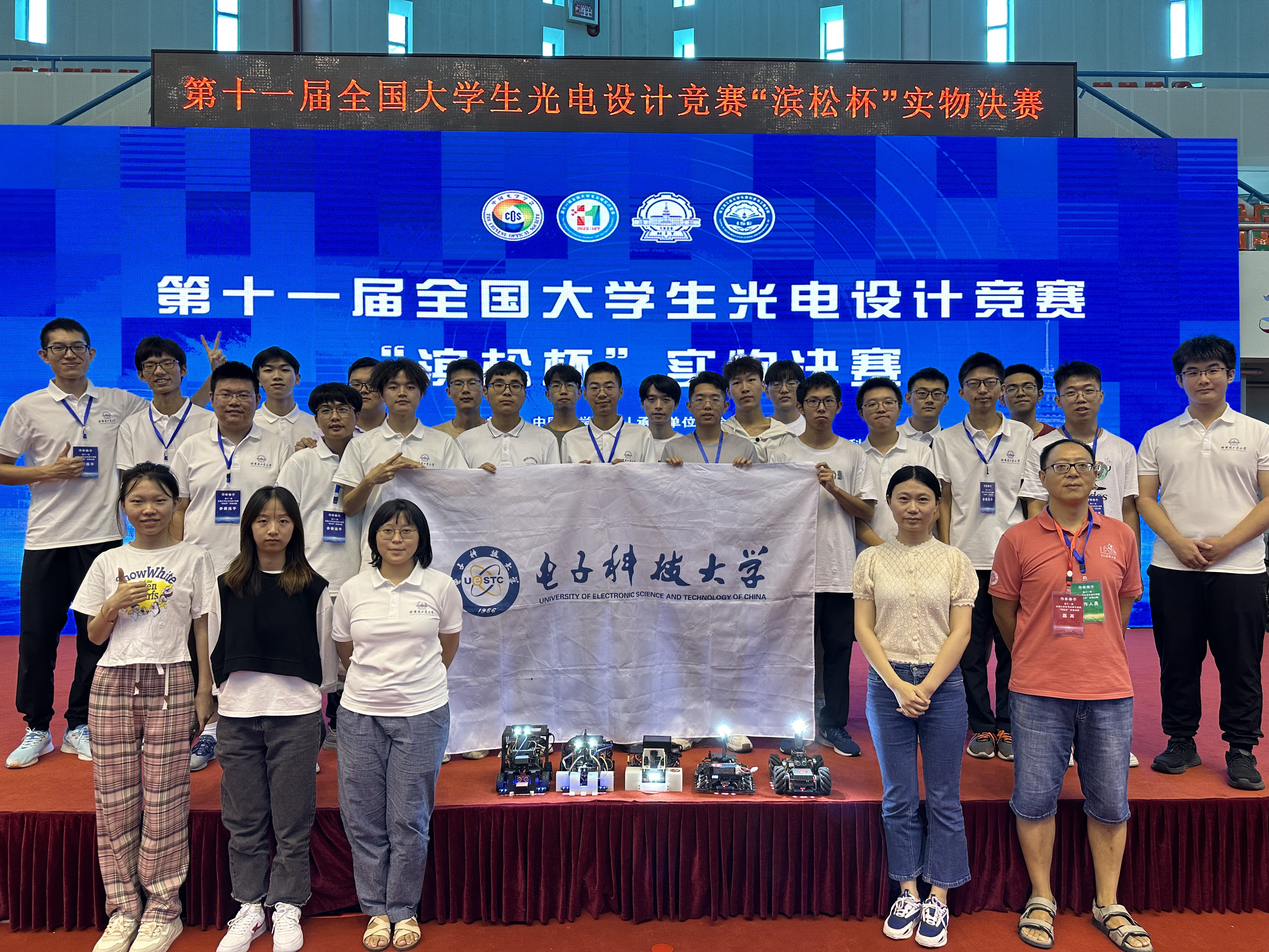
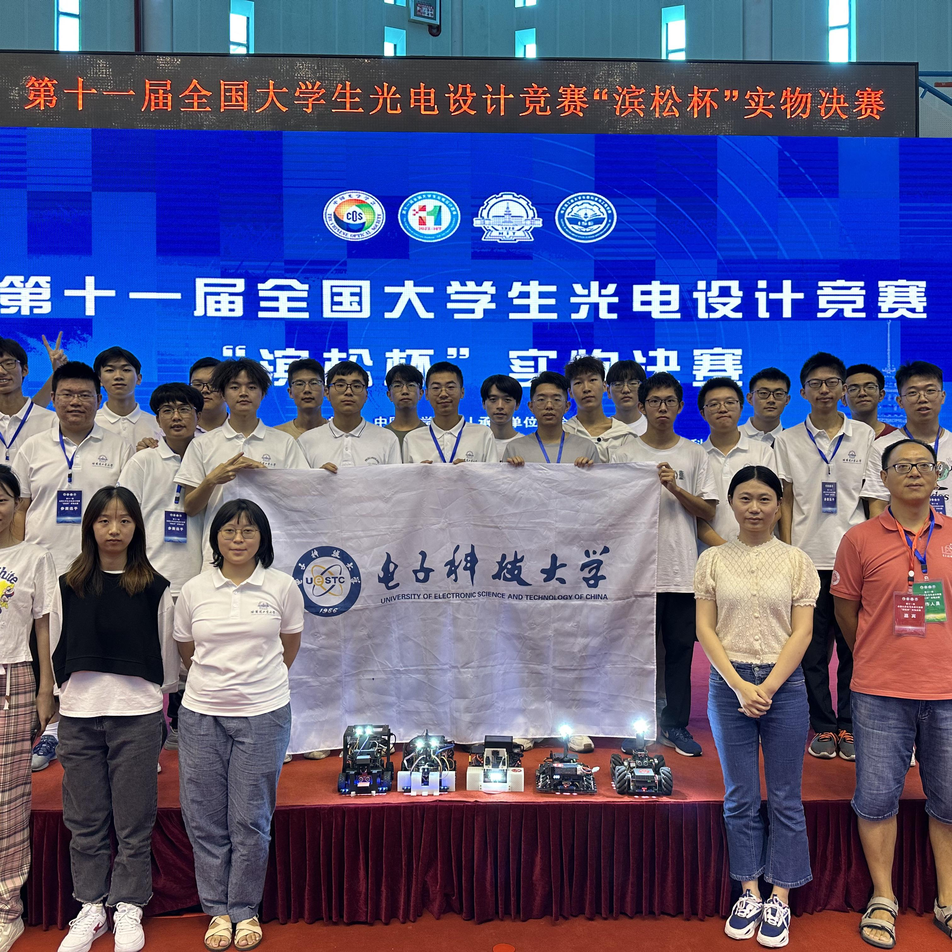
更新readme

diff --git a/05.Others/crop_images.py b/05.Others/crop_images.py
@@ -1,0 +1,54 @@
+import os
+from PIL import Image, ImageSequence
+
+def crop_center(img):
+    width, height = img.size
+    new_edge = min(width, height)
+    left = (width - new_edge) // 2
+    top = (height - new_edge) // 2
+    right = left + new_edge
+    bottom = top + new_edge
+    return img.crop((left, top, right, bottom))
+
+def process_image(file_path, output_dir):
+    try:
+        img = Image.open(file_path)
+        output_path = os.path.join(output_dir, os.path.basename(file_path))
+        if getattr(img, "is_animated", False):
+            frames = []
+            durations = []
+            # 遍历每一帧
+            for frame in ImageSequence.Iterator(img):
+                # 统一转为 RGBA 来处理透明通道
+                frame = frame.convert("RGBA")
+                cropped_frame = crop_center(frame)
+                frames.append(cropped_frame)
+                durations.append(frame.info.get("duration", 100))
+            # 使用第一帧作为起始帧，其他帧依次追加，保持动画参数
+            frames[0].save(output_path,
+                           save_all=True,
+                           append_images=frames[1:],
+                           loop=img.info.get("loop", 0),
+                           duration=durations,
+                           disposal=2)
+        else:
+            cropped = crop_center(img)
+            cropped.save(output_path)
+        print(f"Processed: {file_path}")
+    except Exception as e:
+        print(f"Error processing {file_path}: {e}")
+
+def main(directory):
+    output_dir = os.path.join(directory, "cropped")
+    os.makedirs(output_dir, exist_ok=True)
+    for file_name in os.listdir(directory):
+        if file_name.lower().endswith(('.jpg', '.jpeg', '.png', '.gif')):
+            file_path = os.path.join(directory, file_name)
+            process_image(file_path, output_dir)
+
+if __name__ == "__main__":
+    import argparse
+    parser = argparse.ArgumentParser(description="将指定目录下的图像从中心裁剪成 1:1")
+    parser.add_argument("directory", type=str, help="图像所在的目录路径")
+    args = parser.parse_args()
+    main(args.directory)

diff --git a/README.md b/README.md
@@ -123,9 +123,17 @@
 - 西南赛区第二轮对抗赛：对手车辆在第一轮对抗赛中出现问题，弃权。
 - 全国赛第一轮对抗赛：对方为国防科技大学的队伍，对方车辆在直线行进速度优于我方，但转弯与识别速度不及我方，同时对方车辆在行进中出现失控，而后导致双方纠缠，最终我方险胜。
 ## 🛠 作品介绍
-<div style="flex: 1; text-align: center;">
+<!-- <div style="flex: 1; text-align: center;">
   <img src="./06.Images/部件图.png"style="width: 25%; max-width: 100%;">
-</div>
+</div> -->
+<div style="flex: 1; text-align: center;">
+  <table style="width:100%; border-collapse: collapse;">
+    <tr>
+      <style="width:50%; text-align:center; padding:5px;">
+        <img src="./06.Images/部件图.png" alt="部件图" style="width:50%; aspect-ratio:1/1; object-fit: cover;"><br>
+        <div>部件图</div>
+    </tr>
+
 
 1. 云台：由一个YAW轴云台电机、含碳纤维PLA打印法兰盘与支架、摄像头、摄像头补光灯小板组成，能够让摄像头始终朝向行进方向，便于第一时间识别。
 2. 运动组：由四组运动单元组成，每组运动单元分别有麦克纳姆轮、M2006电机、C610电调各一个。集成后的运动单元使用XT30 2+2接口引出并连接至底层分电板。
@@ -161,7 +169,7 @@
       </td>
       <td style="width:33.33%; text-align:center; padding:5px;">
         <img src="./06.Images/二代.jpg" alt="第二代，增加了理线，定制集成单元和原神贴纸" style="width:100%; aspect-ratio:1/1; object-fit: cover;"><br>
-        <div>第二代，理线，集成单元和原神贴纸</div>
+        <div>第二代，理线、集成单元、原神贴纸</div>
       </td>
       <td style="width:33.33%; text-align:center; padding:5px;">
         <img src="./06.Images/摄像头锁定.gif" alt="二代角度摄像头锁定测试" style="width:100%; aspect-ratio:1/1; object-fit: cover;"><br>
@@ -174,8 +182,8 @@
         <div>省赛场地</div>
       </td>
       <td style="width:33.33%; text-align:center; padding:5px;">
-        <img src="./06.Images/定妆照.png" alt="第三代，更换了碳纤维底板、黑色打印件并统一喷了黑色漆" style="width:100%; aspect-ratio:1/1; object-fit: cover;"><br>
-        <div>第三代，更换了碳纤维底板、黑色打印件并统一喷了黑色漆</div>
+        <img src="./06.Images/定妆照.png" alt="第三代，碳板、黑色打印件并统一喷了黑色漆" style="width:100%; aspect-ratio:1/1; object-fit: cover;"><br>
+        <div>第三代，碳板、黑色件、黑色漆</div>
       </td>
       <td style="width:33.33%; text-align:center; padding:5px;">
         <img src="./06.Images/封面.png" alt="bilibili视频封面" style="width:100%; aspect-ratio:1/1; object-fit: cover;"><br>
@@ -209,6 +217,5 @@
         <img src="./06.Images/圣索菲亚.png" alt="圣索菲亚大教堂" style="width:100%; aspect-ratio:1/1; object-fit: cover;"><br>
         <div>圣索菲亚大教堂</div>
       </td>
-      <td style="width:33.33%;"></td>
     </tr>
   </table>
